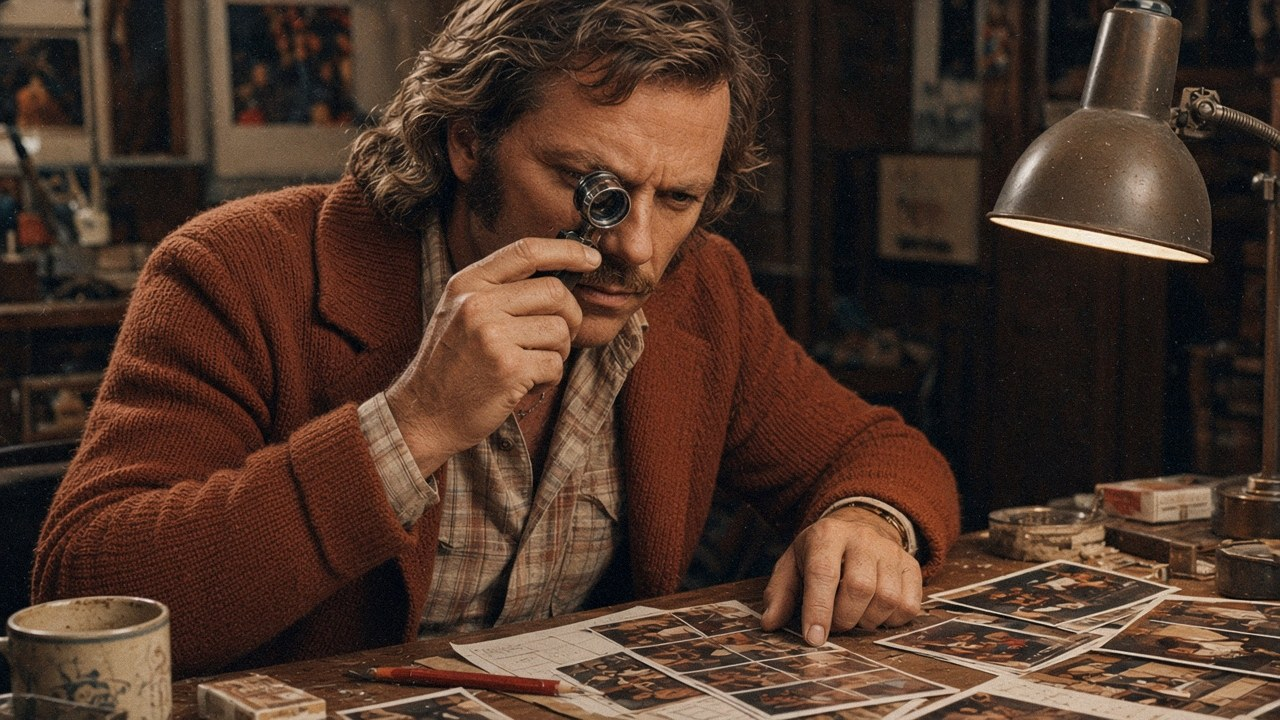
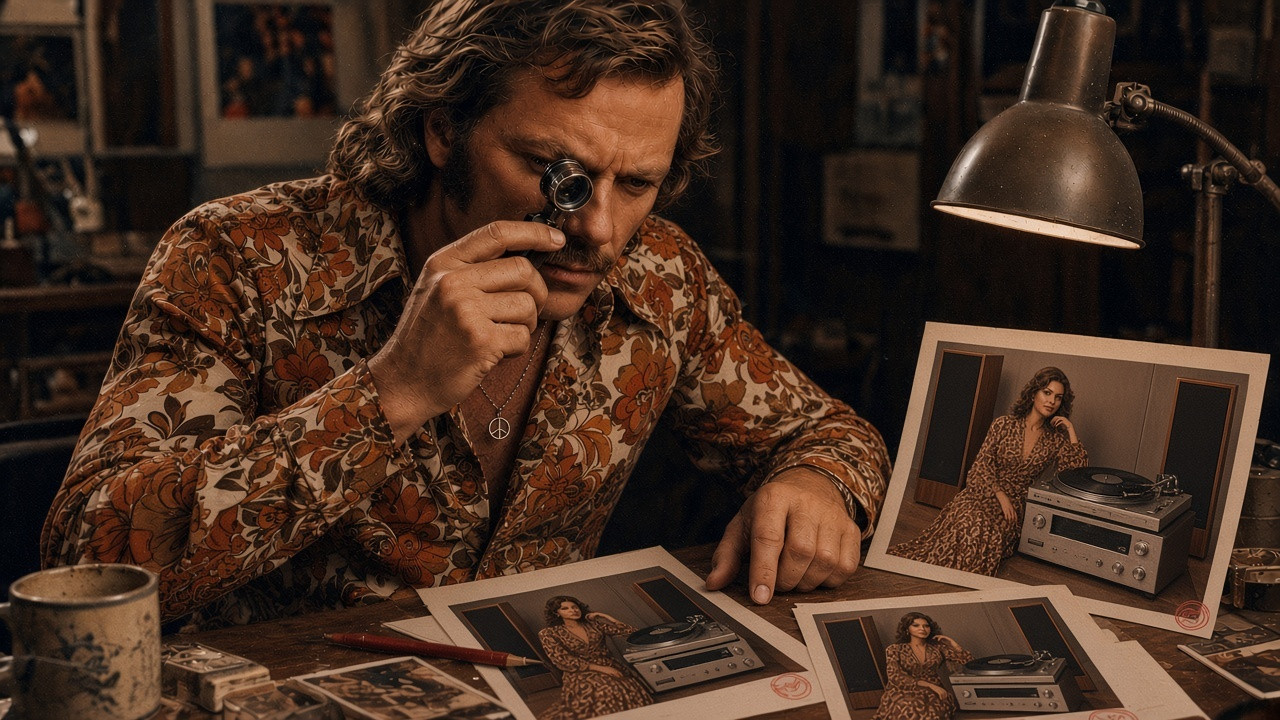
Studio visit: recast the loupe photo with a cooler shirt and Sound of Science proofs.
The Ad Man checks colour frames from that shoot, not the Nice Pair set, and the caption follows the prints.

diff --git a/preview-wy4u7thzbj5o/behind-the-scenes/index.html b/preview-wy4u7thzbj5o/behind-the-scenes/index.html
@@ -108,13 +108,13 @@
     <div class="art-body">
       <figure class="art-pic">
         <picture>
-          <source srcset="img/bts-loupe.webp" type="image/webp">
-          <img src="img/bts-loupe.jpg" width="1280" height="720" alt="The Ad Man in a rust knitted cardigan and a plaid shirt sits at a cluttered desk, a jeweller’s loupe to one eye, studying contact sheets and glossy prints under a metal desk lamp" loading="lazy">
+          <source srcset="img/bts-loupe.webp?v=1" type="image/webp">
+          <img src="img/bts-loupe.jpg?v=1" width="1280" height="720" alt="The Ad Man in a bold floral 1970s silk shirt, a jeweller’s loupe to one eye, studies colour proofs of a hi-fi advertisement shoot: a woman in a patterned dress between tall wooden speakers, with a silver receiver and turntable, under a metal desk lamp" loading="lazy">
         </picture>
-        <figcaption>Proofs, Thursday. The Ad Man and a loupe he borrowed from the picture desk and has not given back.</figcaption>
+        <figcaption>Proofs, Thursday. The Ad Man checks the Sound of Science frames — the woman in the patterned dress beside the silver stack and turntable — with a loupe he borrowed from the picture desk and has not given back.</figcaption>
       </figure>
 
-      <p>On Thursday he sat with the contact sheets and a jeweller’s loupe, marking frames with a red pencil as if the century depended on which laugh was the right laugh. “I can see the grain from here,” he said, without looking up. “That’s the point.” A mug went cold at his elbow. The ashtray did not.</p>
+      <p>On Thursday he sat with the contact sheets from the Sound of Science shoot and a jeweller’s loupe, marking frames with a red pencil as if the century depended on which glance was the right glance. “I can see the grain from here,” he said, without looking up. “That’s the point.” A mug went cold at his elbow. The ashtray did not.</p>
     </div>
 
     <div class="art-body">
